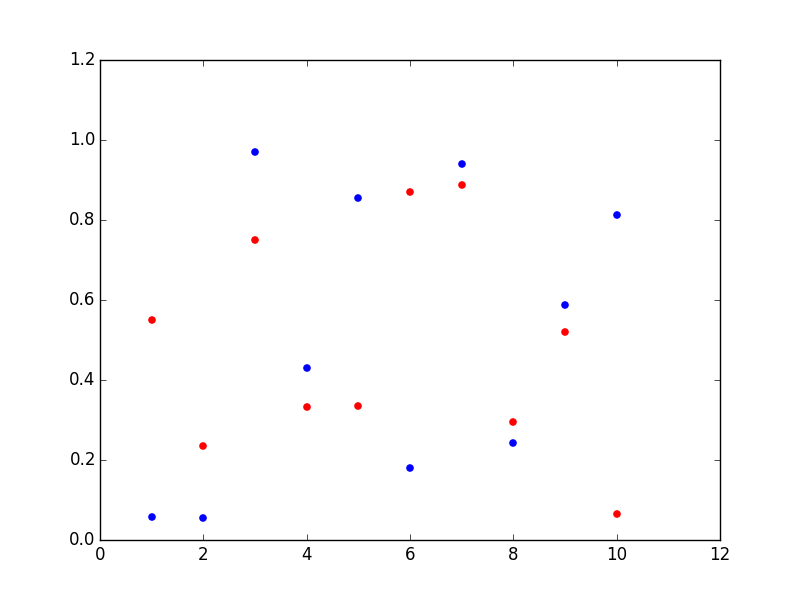
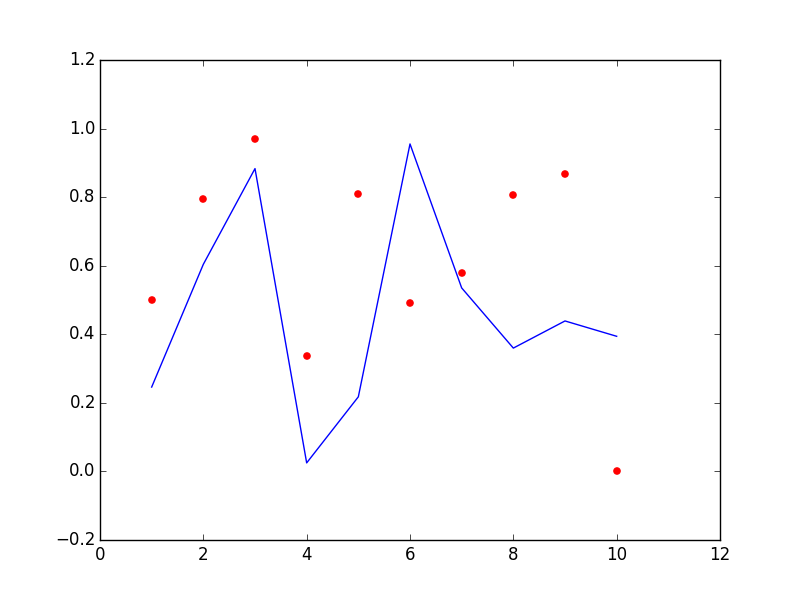
add plot function as sample

diff --git a/sample_matplotlib.py b/sample_matplotlib.py
@@ -10,9 +10,10 @@ def main():
     y1 = np.random.random(10)
     y2 = np.random.random(10)
 
-    plt.scatter(x, y1, color="b")
-    plt.scatter(x, y2, color="r")
-    plt.savefig("sample_matplotlib.png")
+    plt.scatter(x, y1, color="r")  # 散布図, 赤で
+    plt.plot(x, y2, color="b")  # 折れ線図, 青で
+    plt.savefig("sample_matplotlib.png")  # グラフを保存
+                                          # 表示したい場合はplt.show()
 
 
 if __name__ == '__main__':
